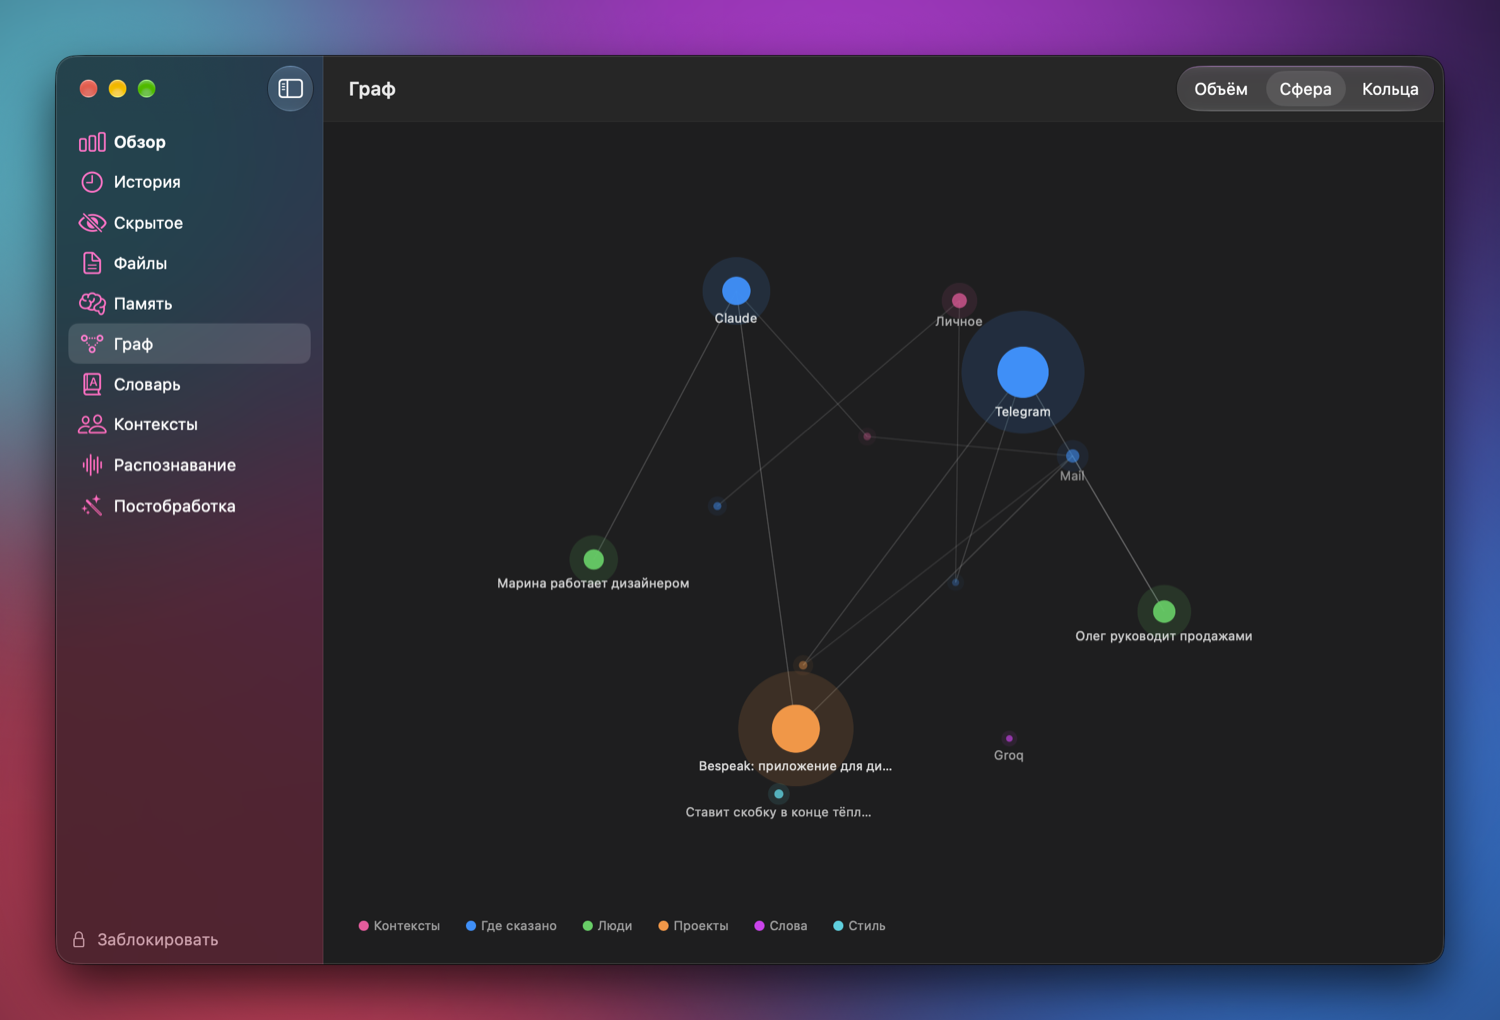
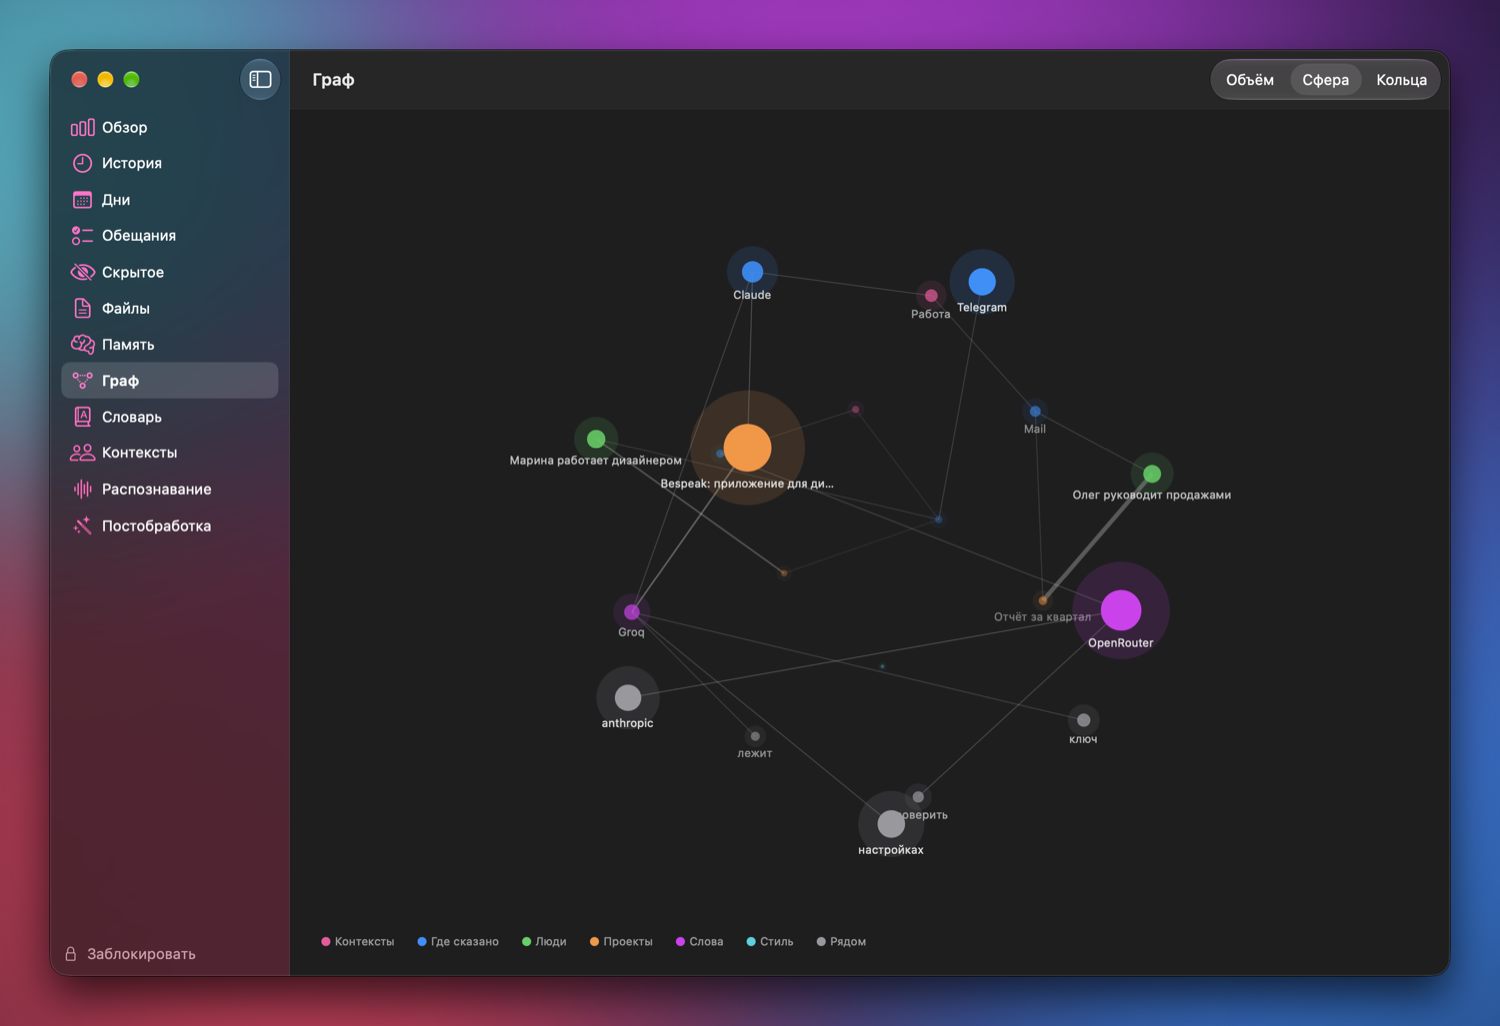
Bespeak 1.1.0

diff --git a/README.md b/README.md
@@ -9,7 +9,7 @@
 Голосовой ввод для Mac, который работает на вашем компьютере,<br>
 учится вашей речи и хранит сказанное зашифрованным.
 
-[![Скачать для Mac](https://img.shields.io/badge/Скачать_для_Mac-1.0.5-111111?style=for-the-badge&logo=apple&logoColor=white)](https://github.com/and-ray-m/Bespeak.app/releases/latest)
+[![Скачать для Mac](https://img.shields.io/badge/Скачать_для_Mac-1.1.0-111111?style=for-the-badge&logo=apple&logoColor=white)](https://github.com/and-ray-m/Bespeak.app/releases/latest)
 &nbsp;
 [![Поддержать проект](https://img.shields.io/badge/Поддержать_проект-чаевые-555555?style=for-the-badge)](https://pay.cloudtips.ru/p/587746f6)
 
@@ -39,9 +39,10 @@ Bespeak сделан иначе. Удерживайте **Fn**, говорите
 |---|---|---|
 | **Где работает** | Часто в облаке | На вашем Mac, облако только по вашему желанию |
 | **Русский с английскими словами** | Путает термины | Jira, Groq и OpenRouter пишутся правильно |
-| **Ваши слова** | Каждый раз заново | Исправили один раз, и он запомнил |
+| **Ваши слова** | Каждый раз заново | Исправили дважды, и он запомнил. Случайная правка не в счёт |
 | **Смысл** | Заменяет слово механически | «Задача в джире» станет Jira, а «жир на теле» останется |
-| **Паузы** | Каждый раз новое предложение | Понимает, что вы остановились на полуслове |
+| **Паузы** | Каждый раз новое предложение | Мысль в несколько приёмов остаётся одним сообщением |
+| **Обещания** | Забываются в переписке | «Завтра пришлю» попадает в список со сроком и напоминанием |
 | **Манера** | Одна на всех | Своя в каждом приложении и с каждым человеком |
 | **Личное** | Лежит открытым текстом | Зашифровано, окно закрыто по Touch ID |
 
@@ -53,15 +54,26 @@ Bespeak сделан иначе. Удерживайте **Fn**, говорите
 Удержание Fn или свободная запись с паузами. Индикатор появляется сразу, а сигнал «говорите» приходит, когда микрофон готов. Слова-паразиты убираются сами. Выделите текст и нажмите Fn + Return, и он вернётся чистым.
 
 ### 🧠 Учится вашей речи
-Поправили слово прямо в сообщении, и Bespeak это заметил. Словарь узнаёт иностранные слова по звучанию и в любом падеже. Хранитель памяти сам разбирает диктовки и собирает факты о людях и проектах, а сомнительные оставляет на ваше подтверждение.
+Поправили слово прямо в сообщении, и Bespeak это заметил. Правило включается, когда та же правка повторилась, и в Истории видно, что заменено, с кнопкой отмены. Словарь узнаёт иностранные слова по звучанию и в любом падеже. Хранитель памяти сам разбирает диктовки и собирает факты о людях и проектах, а сомнительные оставляет на ваше подтверждение.
 
 ### 🙂 Пишет вашим голосом
 Живые частицы остаются, канцелярит не проходит. С коллегами одно, с близкими другое. Скобка вместо смайлика тоже есть: Bespeak поставит её сам там, где вы хотите) Модели на вашем Mac подстраиваются слабее, облачные должны справляться лучше.
 
+### 💬 Сообщения и поиск
+Говорите с паузами: несколько диктовок в одном поле остаются одним сообщением, и вторая фраза продолжает первую. В Истории ищите по словам, а с необязательной «Моделью смысла» и по смыслу: «зубной врач» найдёт «записаться к стоматологу».
+
+### ✅ Обещания
+«Завтра пришлю отчёт», «надо купить подарок»: Bespeak собирает то, что вы обещали, и понимает сроки из ваших слов, «до понедельника», «через неделю», «до двадцатого». Напомнит в срок и в пятницу вечером, а когда вы скажете «отправил», предложит отметить сделанным.
+
+<div align="center"><img src="assets/promises.png" width="680" alt="Страница обещаний в Bespeak"></div>
+
+### 📅 Дни
+Что вы говорили за день, по разговорам, и что Память из этого узнала. Проекты открываются всеми сообщениями о них. Текст ваш, без пересказа.
+
 <div align="center"><img src="assets/graph.png" width="680" alt="Граф знаний Bespeak"></div>
 
 ### 🕸 Граф знаний
-Вся память на одной карте: люди, проекты, слова, приложения и контексты. Крутите в объёме, смотрите связи, переходите к записям. Три вида на выбор.
+Вся память на одной карте: люди, проекты, слова, приложения и контексты. Кого и что вы упоминаете вместе, связано линией, и чем чаще, тем она толще. Крутите в объёме, переходите к записям. Три вида на выбор.
 
 ### 🗂 Контексты
 Объедините приложения и отдельные чаты в «Работу», «Личное», «Лекции». Для личного можно запретить облако совсем, а факты оставить внутри, чтобы рассказанное близким не всплыло в рабочем письме.

diff --git a/CHANGELOG.md b/CHANGELOG.md
@@ -1,5 +1,28 @@
 # Что нового в Bespeak
 
+## 1.1.0 · 4 ноября 2026
+
+**Главное**
+
+- Мысль, сказанная в несколько приёмов с паузами, теперь одно сообщение. Вторая фраза продолжает первую: с маленькой буквы, в лад со сказанным и без повторов. В Истории такое сообщение стоит одной строкой, как ветка в Почте, а каждую его часть можно поправить. Если Bespeak склеил лишнее или разорвал мысль: «Запись → Разделить сообщение здесь» (⌥⌘D) и «Объединить с предыдущим» (⌥⌘J).
+- Поиск в Истории. С необязательной «Моделью смысла» он находит записи и по смыслу: «зубной врач» найдёт «записаться к стоматологу». Подготовка идёт заранее, пока Bespeak простаивает, поэтому первый поиск не ждёт.
+- Новая страница «Обещания»: что вы обещали сделать («завтра пришлю», «надо купить»), по срокам: просрочено, сегодня, на неделе. Срок Bespeak понимает из ваших слов: «завтра», «до понедельника», «через неделю», «до двадцатого». Если позже вы сказали «отправил», он предложит отметить обещание сделанным. Напоминает в срок и в пятницу вечером, отключается в Настройках.
+- Новая страница «Дни»: что вы говорили за день, по разговорам, и что Память из этого узнала. Проекты открываются списком всех сообщений о них. Текст ваш, без пересказа.
+- На графе люди и проекты, которые вы упоминаете вместе, связаны линией: чем чаще, тем она толще.
+
+**Память и Словарь**
+
+- Память читает сообщение целиком, реже придумывает лишнее, а пароли и коды в неё не попадают, даже продиктованные вслух.
+- Необязательная «Модель смысла» (132 МБ) в Постобработке. С ней Память не тратит время на «спасибо)» и не пропускает короткие важные фразы вроде «Релиз в понедельник». Работает только на вашем Mac. Сравнить, что она пропускает, можно в Памяти → Хранитель → «Сравнить отсев болтовни».
+- Bespeak больше не меняет слова после одной случайной правки. Исправление начинает работать, когда вы сделали его в двух разных сообщениях, сначала только в той программе, где правили. Переписанные фразы («я» → «Начнём») и короткие слова вроде «я», «да», «ок» он не трогает.
+- В Истории видно, какие слова заменил Словарь, и замену можно отменить. Если вы сами вернули слово после вставки, Bespeak тоже это запомнит.
+- В Словаре можно выбрать несколько слов и удалить их разом. Случайно удалённое возвращается кнопкой «Вернуть» или ⌘Z.
+
+**После обновления**
+
+- Слова, которые Bespeak раньше выучил по одной правке, теперь ждут повтора. Нужное слово можно сразу добавить в Словарь вручную.
+- При первом обещании со сроком macOS спросит разрешение на уведомления от Bespeak.
+
 ## 1.0.5 · 1 ноября 2026
 
 - Можно назначить диктовку с удержанием на Fn + левый Shift: обе клавиши сохраняются и отображаются в настройках.
